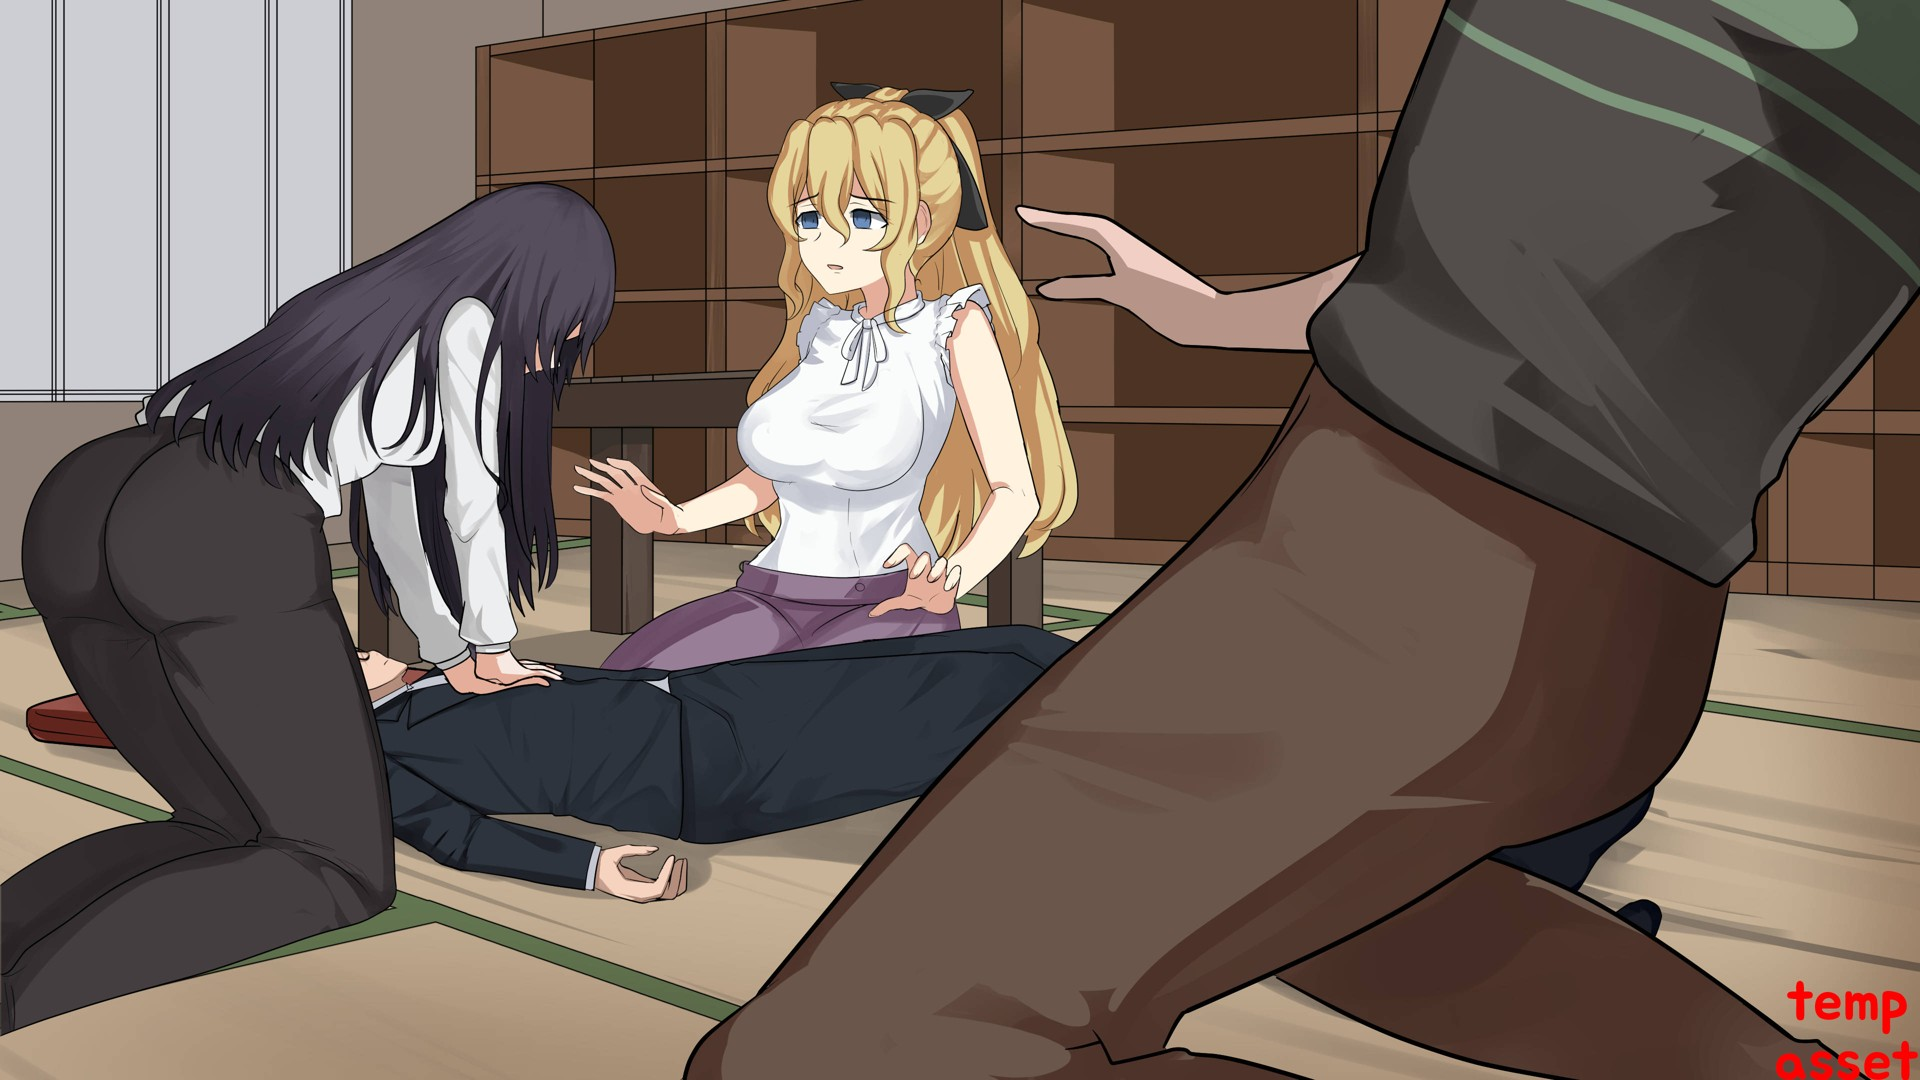
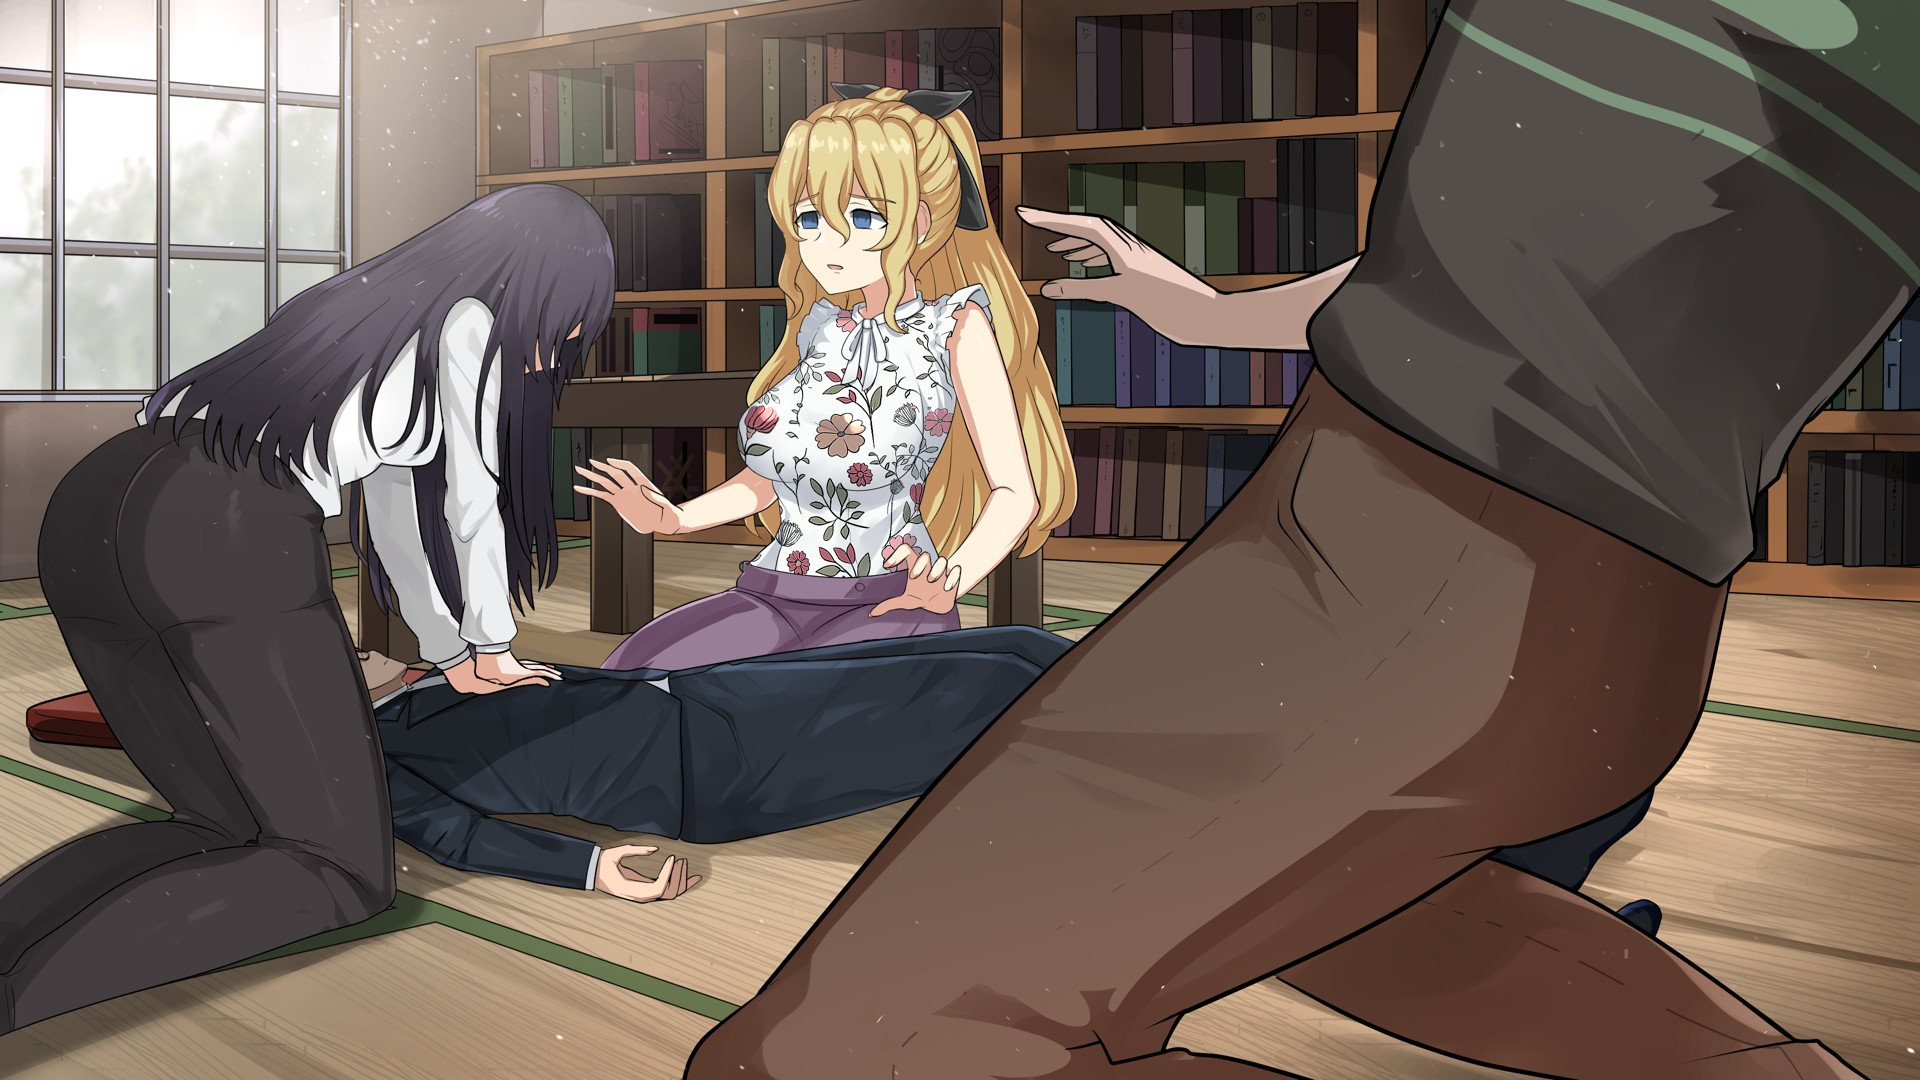
Implement final version of Without Thinking CGs (#18)

diff --git a/scripts/shimgx.py b/scripts/shimgx.py
@@ -385,14 +385,14 @@ IMAGES: list[tuple[str, str, list[ImageTransformation]]] = [
     ("@Event Art/Ch29 Evening Snack/16-3.png",          "event/eveningsnack/eveningsnack_cun2_eatout.jpg"),
     ("@Event Art/Ch29 Evening Snack/17.png",            "event/eveningsnack/eveningsnack_cun2_climax.jpg"),
     # chapter 30
-    ("@Event Art/Without Thinking/WIP/Whizvox_5th_Without_Thinking_CG_WIP_1.1_marked.png", "event/withoutthinking/withoutthinking_lilly.jpg", [RESIZE_1080P]),
-    ("@Event Art/Without Thinking/WIP/Whizvox_5th_Without_Thinking_CG_WIP_1.2_marked.png", "event/withoutthinking/withoutthinking_lilly_crowd.jpg", [RESIZE_1080P]),
-    ("@Event Art/Without Thinking/WIP/Whizvox_5th_Without_Thinking_CG_WIP_2.1_marked.png", "event/withoutthinking/withoutthinking_cpr.jpg", [RESIZE_1080P]),
-    ("@Event Art/Without Thinking/WIP/Whizvox_5th_Without_Thinking_CG_WIP_2.2_marked.png", "event/withoutthinking/withoutthinking_cpr_nohisao.jpg", [RESIZE_1080P]),
-    ("@Event Art/Without Thinking/WIP/Whizvox_5th_Without_Thinking_CG_WIP_2.2_marked.png", "event/withoutthinking/withoutthinking_cpr_nohisao_large.jpg"),
-    ("@Event Art/Without Thinking/WIP/Whizvox_5th_Without_Thinking_CG_WIP_2.3_marked.png", "event/withoutthinking/withoutthinking_cpr_cover.jpg", [RESIZE_1080P]),
-    ("@Event Art/Without Thinking/WIP/Whizvox_5th_Without_Thinking_CG_WIP_2.3_marked.png", "event/withoutthinking/withoutthinking_cpr_cover_large.jpg"),
-    ("@Event Art/Without Thinking/WIP/Whizvox_5th_Without_Thinking_CG_WIP_2.4_marked.png", "event/withoutthinking/withoutthinking_cpr_paramedics.jpg", [RESIZE_1080P]),
+    ("@Event Art/Without Thinking/Final/1.1.jpg", "event/withoutthinking/withoutthinking_lilly.jpg", [RESIZE_1080P]),
+    ("@Event Art/Without Thinking/Final/1.2.jpg", "event/withoutthinking/withoutthinking_lilly_crowd.jpg", [RESIZE_1080P]),
+    ("@Event Art/Without Thinking/Final/2.1.jpg", "event/withoutthinking/withoutthinking_cpr.jpg", [RESIZE_1080P]),
+    ("@Event Art/Without Thinking/Final/2.2.jpg", "event/withoutthinking/withoutthinking_cpr_nohisao.jpg", [RESIZE_1080P]),
+    ("@Event Art/Without Thinking/Final/2.2.jpg", "event/withoutthinking/withoutthinking_cpr_nohisao_large.jpg"),
+    ("@Event Art/Without Thinking/Final/2.3.jpg", "event/withoutthinking/withoutthinking_cpr_cover.jpg", [RESIZE_1080P]),
+    ("@Event Art/Without Thinking/Final/2.3.jpg", "event/withoutthinking/withoutthinking_cpr_cover_large.jpg"),
+    ("@Event Art/Without Thinking/Final/2.4.jpg", "event/withoutthinking/withoutthinking_cpr_paramedics.jpg", [RESIZE_1080P]),
     # chapter 31+32
     ("@Event Art/Bedridden/Whizvox_4th_CG_HOSPITAL_SET_A_FINAL_1.0.jpg", "event/bedridden/bedridden_lillyakira.jpg", [RESIZE_1080P]),
     ("@Event Art/Bedridden/Whizvox_4th_CG_HOSPITAL_SET_B_FINAL_1.1.jpg", "event/bedridden/bedridden_akira.jpg", [RESIZE_1080P]),
